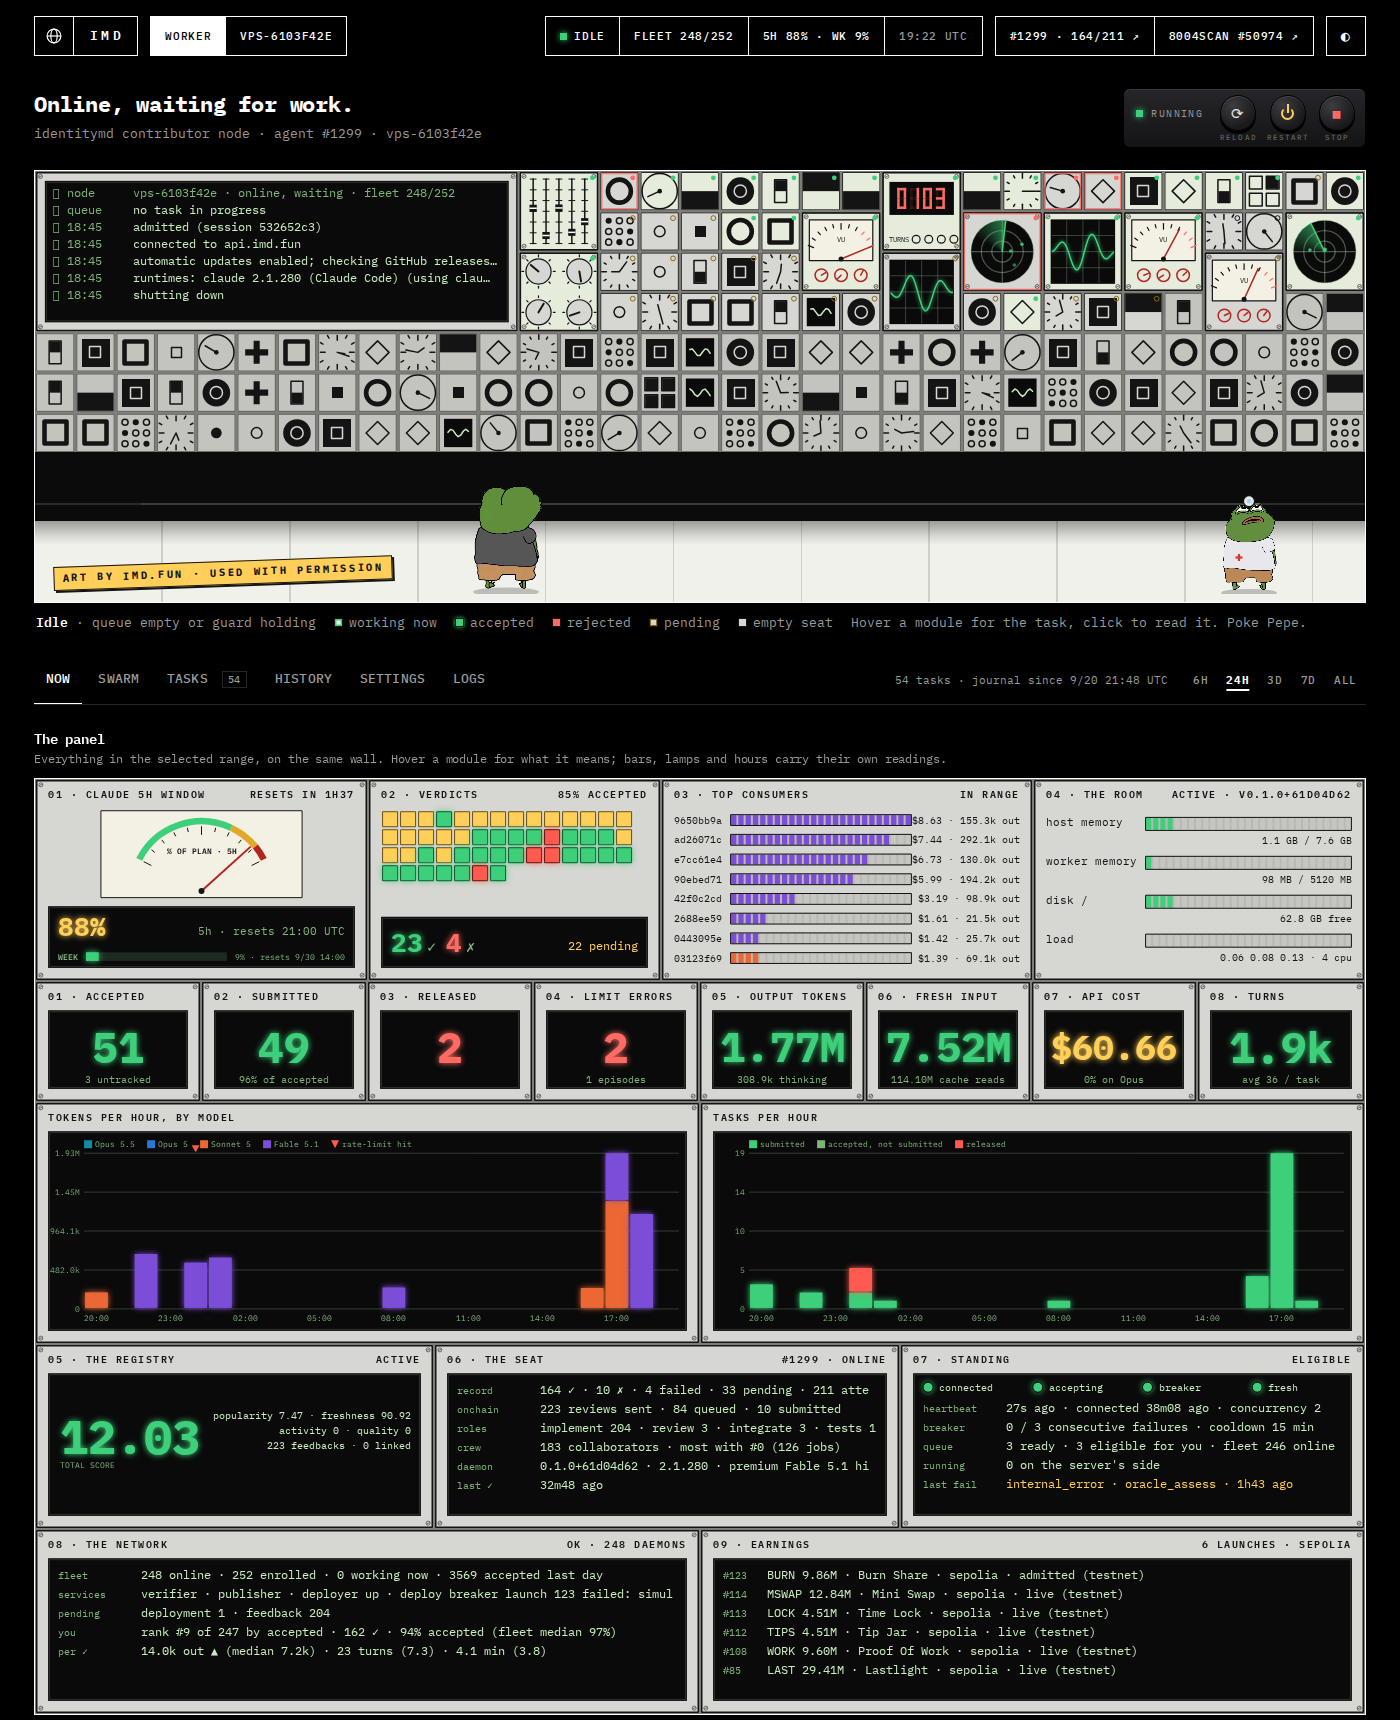
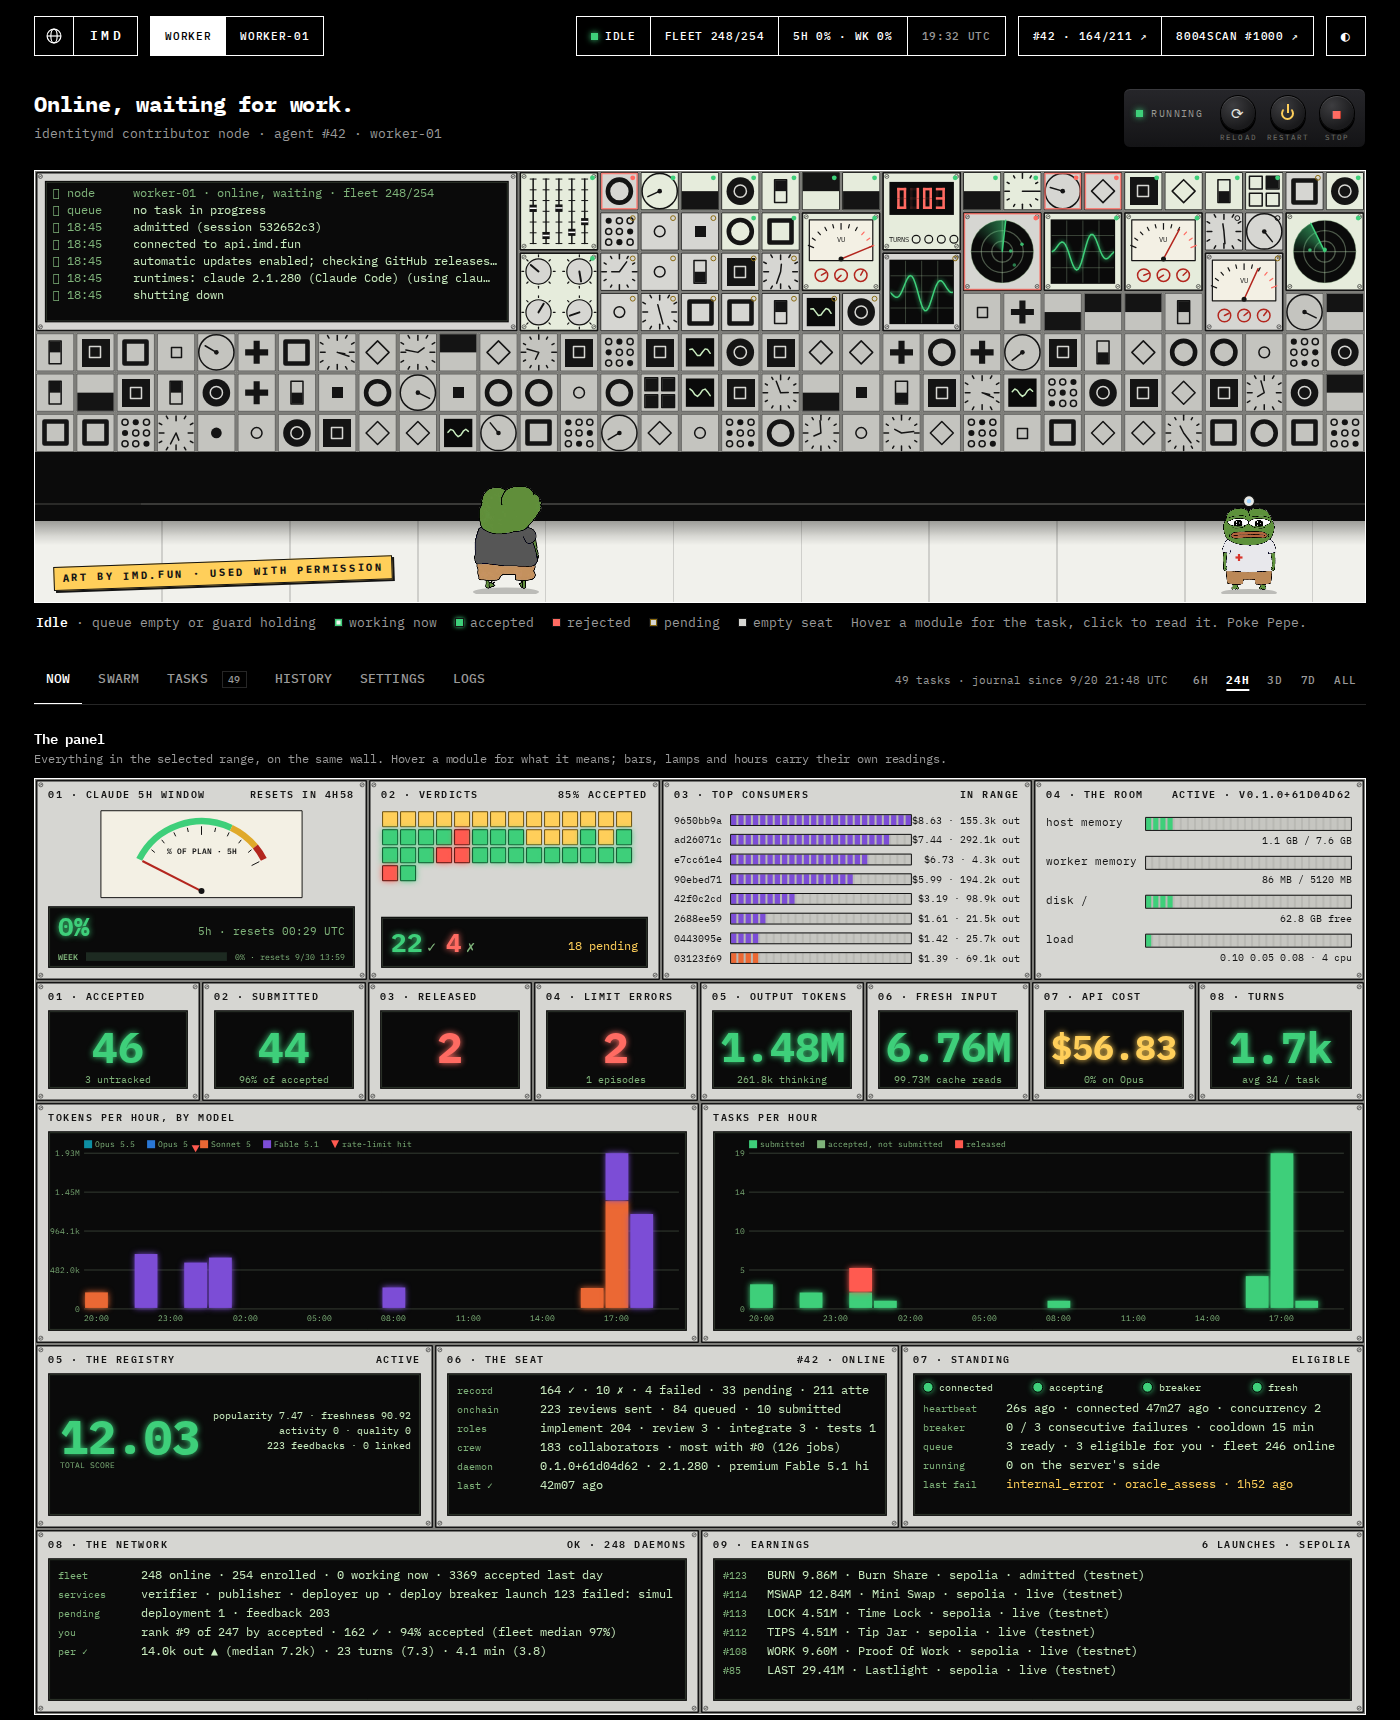
README: masked screenshots, support section

diff --git a/README.md b/README.md
@@ -99,6 +99,12 @@ The panel binds `127.0.0.1` and has no authentication of its own: anyone who can
 machine can operate your worker. Use the SSH tunnel, do not expose the port. Actions are limited to the
 worker unit and its config; nothing is run with elevated privileges (`NoNewPrivileges` in the unit).
 
+## Support
+
+There is no support channel. Ask your AI assistant: open this folder in Claude Code (or any coding
+agent), point it at `README.md` and the file you are stuck on, and describe what you see — that is how
+this panel was built and how it is maintained. Issues and pull requests are welcome, answers may take a while.
+
 ## Credits
 
 Pepe and the room's look are by [imd.fun](https://imd.fun), used with the author's permission.
